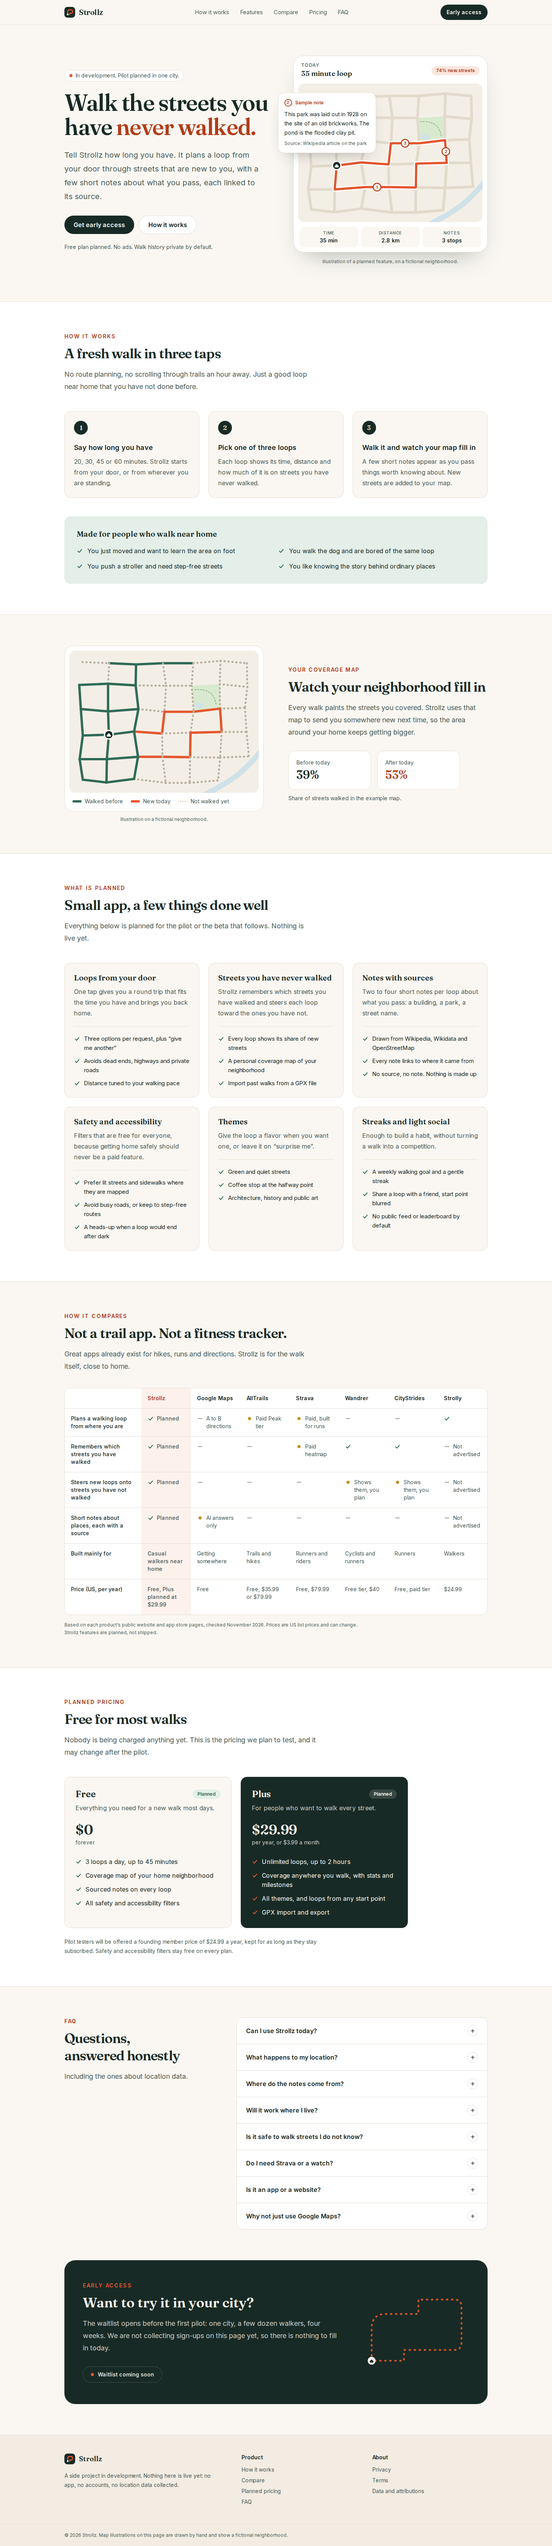
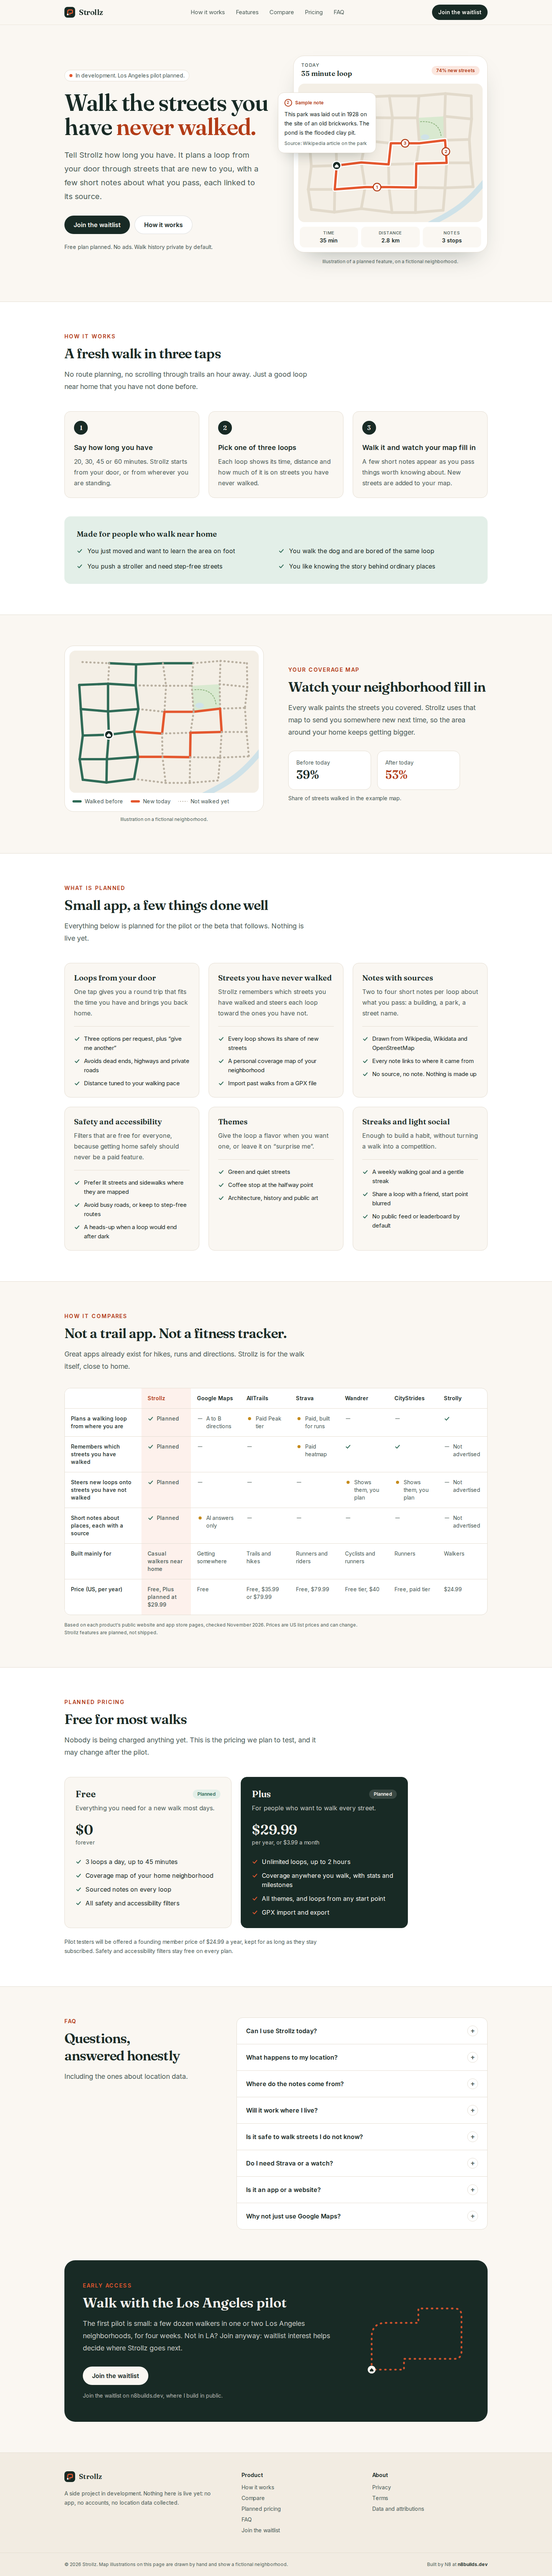
feat(landing): announce the Los Angeles pilot and link the waitlist to n8builds.dev
Copy now names a Los Angeles pilot instead of one unnamed city. Every
waitlist call to action links to n8builds.dev/upcoming in the same tab; the
mailto fallback and NEXT_PUBLIC_CONTACT_EMAIL are removed. The footer
credits n8builds.dev. Also fix a mobile layout bug where the comparison
table's sr-only caption escaped its scroller and widened the layout
viewport to 895px. Screenshots retaken.

diff --git a/src/app/page.tsx b/src/app/page.tsx
@@ -12,7 +12,7 @@ import {
   type Cell,
 } from "@/lib/content";
 import { coverageShares, loopNewShare } from "@/lib/neighbourhood";
-import { site, waitlistHref } from "@/lib/site";
+import { site } from "@/lib/site";
 
 export default function Home() {
   const jsonLd = [
@@ -94,7 +94,7 @@ function Hero() {
         <div>
           <p className="inline-flex items-center gap-2 rounded-full border border-rule bg-card px-3 py-1 text-sm text-ink-soft">
             <span className="h-2 w-2 rounded-full bg-coral" aria-hidden="true" />
-            In development. Pilot planned in one city.
+            In development. Los Angeles pilot planned.
           </p>
           <h1
             id="hero-title"
@@ -107,12 +107,12 @@ function Hero() {
             new to you, with a few short notes about what you pass, each linked to its source.
           </p>
           <div className="mt-8 flex flex-wrap items-center gap-3">
-            <Link
-              href="#waitlist"
+            <a
+              href={site.waitlistUrl}
               className="inline-flex h-12 items-center rounded-full bg-ink px-6 text-base font-semibold text-paper transition-colors hover:bg-moss"
             >
-              Get early access
-            </Link>
+              Join the waitlist
+            </a>
             <Link
               href="#how-it-works"
               className="inline-flex h-12 items-center rounded-full border border-ink/15 bg-card px-6 text-base font-semibold transition-colors hover:border-ink/40"
@@ -120,7 +120,7 @@ function Hero() {
               How it works
             </Link>
           </div>
-          <p className="mt-6 text-sm text-ink-soft">
+          <p className="mt-6 text-sm text-ink-soft text-pretty">
             Free plan planned. No ads. Walk history private by default.
           </p>
         </div>
@@ -344,7 +344,7 @@ function Compare() {
           intro="Great apps already exist for hikes, runs and directions. Strollz is for the walk itself, close to home."
         />
         <div
-          className="mt-10 overflow-x-auto rounded-2xl border border-rule bg-card"
+          className="relative mt-10 overflow-x-auto rounded-2xl border border-rule bg-card"
           role="region"
           aria-label="Comparison table, scrolls sideways on small screens"
           tabIndex={0}
@@ -488,7 +488,6 @@ function Faq() {
 }
 
 function Waitlist() {
-  const mail = waitlistHref();
   return (
     <section id="waitlist" aria-labelledby="waitlist-title" className="mx-auto max-w-6xl px-4 pb-20 sm:px-6">
       <div className="relative overflow-hidden rounded-[28px] bg-ink px-6 py-14 text-paper sm:px-12">
@@ -513,35 +512,22 @@ function Waitlist() {
         <div className="relative max-w-2xl">
           <p className="text-sm font-semibold uppercase tracking-[0.14em] text-coral">Early access</p>
           <h2 id="waitlist-title" className="mt-3 font-display text-3xl font-semibold leading-tight sm:text-4xl">
-            Want to try it in your city?
+            Walk with the Los Angeles pilot
           </h2>
-          {mail ? (
-            <>
-              <p className="mt-4 text-lg leading-8 text-paper/80">
-                The first pilot is small: one city, a few dozen walkers, four weeks. Send a short
-                email with where you live and how you like to walk, and you will hear back when a
-                spot opens. Your email is only used for this.
-              </p>
-              <a
-                href={mail}
-                className="mt-8 inline-flex h-12 items-center rounded-full bg-paper px-6 text-base font-semibold text-ink transition-colors hover:bg-coral-soft"
-              >
-                Email to join the waitlist
-              </a>
-            </>
-          ) : (
-            <>
-              <p className="mt-4 text-lg leading-8 text-paper/80">
-                The waitlist opens before the first pilot: one city, a few dozen walkers, four
-                weeks. We are not collecting sign-ups on this page yet, so there is nothing to fill
-                in today.
-              </p>
-              <p className="mt-8 inline-flex items-center gap-2.5 rounded-full border border-dashed border-paper/35 px-5 py-2.5 text-sm font-semibold text-paper/90">
-                <span className="h-2 w-2 rounded-full bg-coral" aria-hidden="true" />
-                Waitlist coming soon
-              </p>
-            </>
-          )}
+          <p className="mt-4 text-lg leading-8 text-paper/80">
+            The first pilot is small: a few dozen walkers in one or two Los Angeles neighborhoods,
+            for four weeks. Not in LA? Join anyway: waitlist interest helps decide where Strollz goes
+            next.
+          </p>
+          <a
+            href={site.waitlistUrl}
+            className="mt-8 inline-flex h-12 items-center rounded-full bg-paper px-6 text-base font-semibold text-ink transition-colors hover:bg-coral-soft"
+          >
+            Join the waitlist
+          </a>
+          <p className="mt-4 text-sm leading-6 text-paper/70">
+            Join the waitlist on n8builds.dev, where I build in public.
+          </p>
         </div>
       </div>
     </section>

diff --git a/src/components/chrome.tsx b/src/components/chrome.tsx
@@ -1,5 +1,5 @@
 import Link from "next/link";
-import { site, waitlistHref } from "@/lib/site";
+import { site } from "@/lib/site";
 
 export function LogoMark({ className = "h-7 w-7" }: { className?: string }) {
   return (
@@ -45,12 +45,12 @@ export function SiteHeader() {
             ))}
           </ul>
         </nav>
-        <Link
-          href="/#waitlist"
+        <a
+          href={site.waitlistUrl}
           className="inline-flex h-10 items-center rounded-full bg-ink px-4 text-sm font-semibold text-paper transition-colors hover:bg-moss"
         >
-          Early access
-        </Link>
+          Join the waitlist
+        </a>
       </div>
     </header>
   );
@@ -58,7 +58,6 @@ export function SiteHeader() {
 
 export function SiteFooter() {
   const year = new Date(site.lastUpdated).getFullYear();
-  const mail = waitlistHref();
   return (
     <footer className="border-t border-rule bg-paper-deep">
       <div className="mx-auto grid max-w-6xl grid-cols-2 gap-10 px-4 py-12 sm:px-6 md:grid-cols-[1.4fr_1fr_1fr]">
@@ -79,6 +78,7 @@ export function SiteFooter() {
             <li><Link className="hover:text-ink" href="/#compare">Compare</Link></li>
             <li><Link className="hover:text-ink" href="/#pricing">Planned pricing</Link></li>
             <li><Link className="hover:text-ink" href="/#faq">FAQ</Link></li>
+            <li><a className="hover:text-ink" href={site.waitlistUrl}>Join the waitlist</a></li>
           </ul>
         </nav>
         <nav aria-label="Legal and contact">
@@ -87,17 +87,22 @@ export function SiteFooter() {
             <li><Link className="hover:text-ink" href="/privacy">Privacy</Link></li>
             <li><Link className="hover:text-ink" href="/terms">Terms</Link></li>
             <li><Link className="hover:text-ink" href="/attributions">Data and attributions</Link></li>
-            {mail && (
-              <li><a className="hover:text-ink" href={mail}>Contact</a></li>
-            )}
           </ul>
         </nav>
       </div>
       <div className="border-t border-rule">
-        <p className="mx-auto max-w-6xl px-4 py-5 text-xs text-ink-soft sm:px-6">
-          &copy; {year} {site.name}. Map illustrations on this page are drawn by hand and show a
-          fictional neighborhood.
-        </p>
+        <div className="mx-auto flex max-w-6xl flex-col gap-2 px-4 py-5 text-xs text-ink-soft sm:flex-row sm:items-start sm:justify-between sm:gap-8 sm:px-6">
+          <p className="leading-5">
+            &copy; {year} {site.name}. Map illustrations on this page are drawn by hand and show a
+            fictional neighborhood.
+          </p>
+          <p className="shrink-0 leading-5">
+            Built by N8 at{" "}
+            <a className="font-semibold text-ink hover:underline hover:underline-offset-4" href={site.builderUrl}>
+              n8builds.dev
+            </a>
+          </p>
+        </div>
       </div>
     </footer>
   );

diff --git a/src/lib/site.ts b/src/lib/site.ts
@@ -2,25 +2,16 @@
  * Site-wide configuration for the Strollz landing page.
  *
  * NEXT_PUBLIC_SITE_URL sets canonical URLs, the sitemap and Open Graph links.
- * NEXT_PUBLIC_CONTACT_EMAIL, when set, turns the waitlist call to action into a
- * mailto link. When it is not set the page says the waitlist is coming soon,
- * because nothing on this site stores sign-ups yet.
+ * The waitlist lives on n8builds.dev, where the owner builds in public; this
+ * site has no forms and stores nothing.
  */
 export const site = {
   name: "Strollz",
   tagline: "Walk the streets you have never walked.",
   description:
-    "Strollz plans a walking loop from your door through streets you have not walked yet, with short notes about what you pass and a link to where each fact comes from. In development, pilot planned.",
+    "Strollz plans a walking loop from your door through streets you have not walked yet, with short notes about what you pass and a link to where each fact comes from. In development, Los Angeles pilot planned.",
   url: (process.env.NEXT_PUBLIC_SITE_URL ?? "http://localhost:3000").replace(/\/$/, ""),
-  contactEmail: process.env.NEXT_PUBLIC_CONTACT_EMAIL?.trim() || null,
+  waitlistUrl: "https://n8builds.dev/upcoming?interest=strollz#strollz",
+  builderUrl: "https://n8builds.dev",
   lastUpdated: "2026-11-01",
 } as const;
-
-export function waitlistHref(): string | null {
-  if (!site.contactEmail) return null;
-  const subject = encodeURIComponent("Strollz waitlist");
-  const body = encodeURIComponent(
-    "Hi, I would like to try Strollz.\n\nMy city or neighborhood:\nHow I usually walk (dog, stroller, commute, exercise, other):\n",
-  );
-  return `mailto:${site.contactEmail}?subject=${subject}&body=${body}`;
-}

diff --git a/src/lib/content.ts b/src/lib/content.ts
@@ -176,7 +176,7 @@ export const plans = [
 export const faqs = [
   {
     q: "Can I use Strollz today?",
-    a: "Not yet. Strollz is in development. The plan is a small pilot in one city first, then a public beta if people keep using it. There is no app to download and nothing to pay for.",
+    a: "Not yet. Strollz is in development. The plan is a small pilot in Los Angeles first, then a public beta if people keep using it. There is no app to download and nothing to pay for.",
   },
   {
     q: "What happens to my location?",
@@ -188,7 +188,7 @@ export const faqs = [
   },
   {
     q: "Will it work where I live?",
-    a: "Routes are built from OpenStreetMap, which covers most towns and cities. Sidewalk, lighting and step-free details are patchier, especially in suburbs, so those filters will say when data is missing. The pilot starts in a single city so route quality can be checked by hand.",
+    a: "Routes are built from OpenStreetMap, which covers most towns and cities. Sidewalk, lighting and step-free details are patchier, especially in suburbs, so those filters will say when data is missing. The pilot starts in one or two Los Angeles neighborhoods so route quality can be checked by hand.",
   },
   {
     q: "Is it safe to walk streets I do not know?",

diff --git a/src/app/privacy/page.tsx b/src/app/privacy/page.tsx
@@ -17,7 +17,7 @@ export default function PrivacyPage() {
         <h2>This website today</h2>
         <ul>
           <li>This site sets no cookies and runs no analytics or advertising trackers.</li>
-          <li>It has no forms and stores no personal data. If you email us, we use your email only to reply.</li>
+          <li>It has no forms and stores no personal data. The waitlist lives on n8builds.dev, which handles your email under its own privacy notice and uses it only to tell you when the pilot or beta opens.</li>
           <li>Our hosting provider may keep standard server logs (such as IP address and pages requested) for security.</li>
         </ul>
       </section>

diff --git a/README.md b/README.md
@@ -7,7 +7,7 @@ It tracks the streets you cover, like Wandrer or CityStrides, but for casual wal
 
 **Status:** concept and landing page only.
 There is no app, no accounts and no data collection yet.
-The next step is a 4-week pilot in one city, described in the delivery plan.
+The next step is a 4-week pilot in Los Angeles (decided 2026-11-01), described in the delivery plan.
 
 ## Documents
 
@@ -33,12 +33,14 @@ npm run lint
 npm run typecheck
 ```
 
-Environment variables (both optional, read at build time):
+Environment variable (optional, read at build time):
 
 | Variable | Purpose |
 | --- | --- |
 | `NEXT_PUBLIC_SITE_URL` | Canonical URL for metadata, sitemap and Open Graph links; defaults to `http://localhost:3000` |
-| `NEXT_PUBLIC_CONTACT_EMAIL` | When set, the waitlist button becomes a mailto link; when unset, the page says the waitlist is coming soon |
+
+There is no sign-up form on this site.
+Every waitlist call to action links to `https://n8builds.dev/upcoming?interest=strollz#strollz` in the same tab, where the owner builds in public; the URL lives in `src/lib/site.ts`.
 
 Screenshots of the current page are in [`docs/screenshots/`](docs/screenshots/).
 
